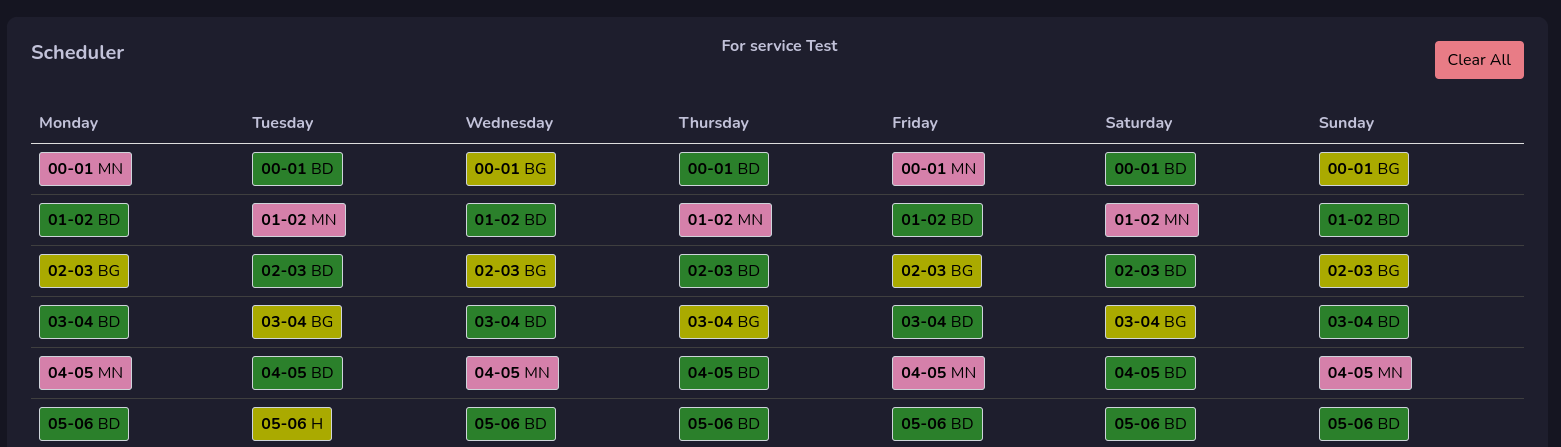
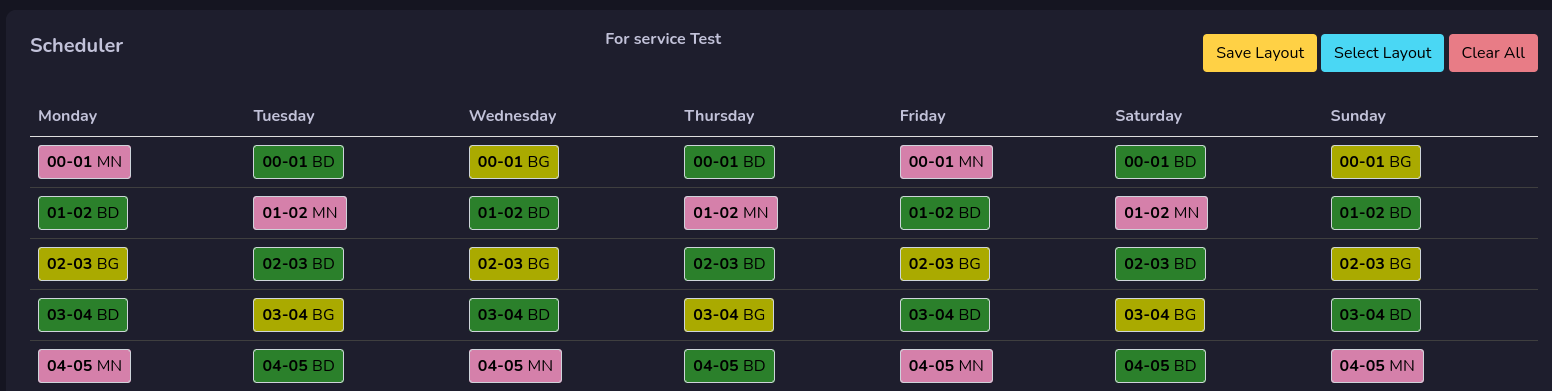
Added document for grid layout

diff --git a/docs/grids.md b/docs/grids.md
@@ -14,3 +14,22 @@ Press **Add** button to add on that hour, if you press **Add on all** that clock
 
 ## Clear All
 You can clear your grid by pressing the clear all button, this will remove **ALL** clocks on all hours!
+
+## Grid Layout
+It's possible to save your grid layout for easy switch between layouts. Each grid layout is per Service.
+
+!!! Info
+
+    Grid layouts are not stored in rivendell, it's a feature that this web system has. It's stored in the data folder on the server. This is still under development and more features will be added.
+
+### Save grid layout
+![Screenshot](img/savegridlayout.png)
+Press the Save layout button to save that grid. Give it a name and press save. You can not use the same grid layout on other services.
+
+### Select grid layout
+![Screenshot](img/selectgridlayout.png)
+Press the Select Layout button to change to another grid layout. Select what you would like to use and press the plus button.
+
+!!! Danger
+
+    The grid will be replaced with the selected grid layout as soon as you confirm that you want to add it.
